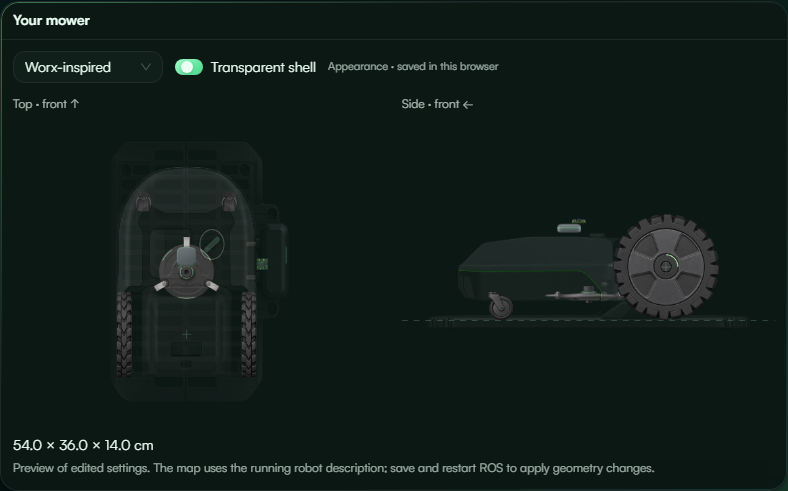
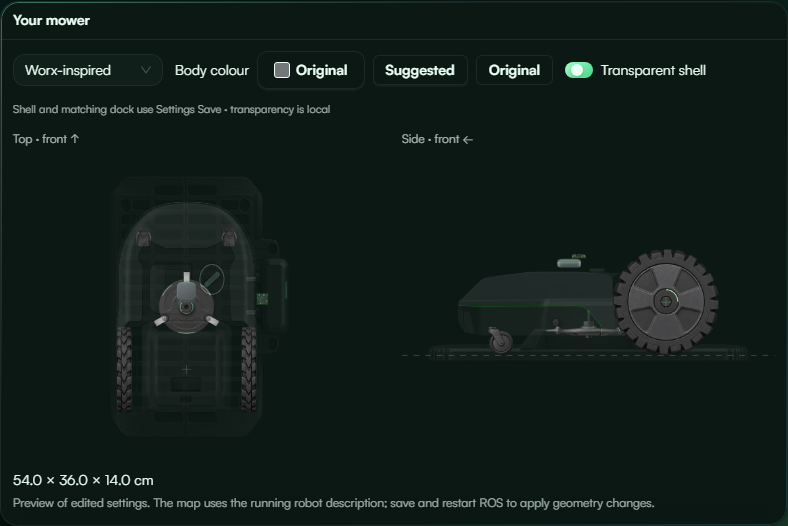
fix(gui): align side-charging dock housing with tray centre

diff --git a/gui/web/src/components/robot/PartSprite.tsx b/gui/web/src/components/robot/PartSprite.tsx
@@ -7,6 +7,7 @@ export function PartSprite({part,view,width,height,fallback,artwork="full"}: {
 }) {
     const [loaded,setLoaded]=useState(false);
     const asset=PARTS[part], region=asset[view];
+    const sourceSize=asset.sizes?.[view] ?? asset.size;
     const [x,y,w,h]=region.crop;
     // The caster's reference is its tyre, not its taller fork. This keeps wheel
     // diameter and axle height true to URDF even with an asymmetric drawing.
@@ -17,7 +18,7 @@ export function PartSprite({part,view,width,height,fallback,artwork="full"}: {
             viewBox={[x,y,w,h].join(" ")} preserveAspectRatio="none" overflow="hidden">
             <image href={artwork === "map" ? `/assets/robots/layered/map/${part}-${view}.webp` : `/assets/robots/layered/${asset.files[view]}`}
                 x={artwork === "map" ? x : 0} y={artwork === "map" ? y : 0}
-                width={artwork === "map" ? w : asset.size[0]} height={artwork === "map" ? h : asset.size[1]}
+                width={artwork === "map" ? w : sourceSize[0]} height={artwork === "map" ? h : sourceSize[1]}
                 onLoad={()=>setLoaded(true)} onError={()=>setLoaded(false)}/>
         </svg>
     </g>;

diff --git a/gui/web/src/components/robot/partAssets.ts b/gui/web/src/components/robot/partAssets.ts
@@ -1,7 +1,7 @@
 import {APPEARANCE_REGISTRY} from "./appearanceRegistry";
 export type PartId = keyof typeof APPEARANCE_REGISTRY.parts;
 type Region = {crop:readonly [number,number,number,number];reference?:readonly [number,number,number,number]};
-export type PartAtlas = {files: Record<"top"|"side",string>; mapMaxSize: number; size:readonly [number,number];top:Region;side:Region};
+export type PartAtlas = {files: Record<"top"|"side",string>; mapMaxSize: number; size:readonly [number,number];sizes?:Partial<Record<"top"|"side",readonly [number,number]>>;top:Region;side:Region};
 export const PARTS: Record<PartId,PartAtlas> = APPEARANCE_REGISTRY.parts;
 
 export function partBounds(part:PartId,view:"top"|"side",width:number,height:number) {

diff --git a/gui/web/src/components/robot/appearanceRegistry.ts b/gui/web/src/components/robot/appearanceRegistry.ts
@@ -247,15 +247,16 @@ export const APPEARANCE_REGISTRY = {
         },
         "dock-worx": {
             "size": [1774, 887],
+            "sizes": {"top": [1774, 887], "side": [1984, 793]},
             "top": {
                 "crop": [47, 53, 721, 772]
             },
             "side": {
-                "crop": [798, 370, 934, 267]
+                "crop": [100, 282, 1784, 332]
             },
             "files": {
                 "top": "dock-worx.png",
-                "side": "dock-worx.png"
+                "side": "dock-worx-side.png"
             },
             "mapMaxSize": 384
         },

diff --git a/docs/pr/layered-mower/dock-side-artwork.md b/docs/pr/layered-mower/dock-side-artwork.md
@@ -1,0 +1,16 @@
+# Side-charging dock side-view correction
+
+The original top artwork is unchanged. The side view is independently registered
+in `appearanceRegistry.ts`, preserving footprint dimensions and dock offsets.
+The charging housing is centred along the tray, broadened to match the top-view
+layout, and has two visible contacts at the same height.
+
+Tool: built-in image generation, transparent-background edit. Final asset:
+`gui/web/public/assets/robots/layered/dock-worx-side.png`.
+
+Final prompt (references: original dock atlas and the first centred side draft):
+
+> Precise-object-edit for production mower charging dock side sprite. Image 1 is original atlas, its TOP VIEW on left is authoritative geometry. Image 2 is side-view edit target: tray and centered tower are good, but tower is much TOO NARROW and two charging contacts are missing. Output ONLY corrected SIDE VIEW on genuine transparent background. Preserve Image 2 horizontal tray length, thin base height, level orthographic camera, graphite grey material and shading, centered tower location, subtle mint indicator and transparent padding. Correct upright housing to match top reference: housing body spans approximately 28% of total tray length horizontally (current body only about16%); its center exactly halfway along tray. Housing must be a BROAD low rectangular charging unit, not a skinny column, with subtly beveled edges; same height as Image2. Add TWO clearly visible SILVER METAL CHARGING PRONGS to the broad face facing the viewer, separated HORIZONTALLY, at the SAME HEIGHT, one near left end and one near right end of housing. These contacts project towards mower/viewer, foreshortened short cylindrical steel pins with rounded ends, visible short shafts and dark bases; NEVER stacked vertically. Their horizontal separation is approximately 14% of tray length, matching top view reference contact spacing. Broad housing about 460px wide relative to approximately1650px tray, two contacts around240px apart. Do NOT shift the housing towards either end of tray. No mower, no text, no brands, no cables, no extra panels, no other views, no ground/background/shadow. Keep full tray silhouette uncut.
+
+Generation is illustrative, not a dimensional survey. Physical sizing still
+comes from configured dock length/width and registry height, not source padding.

diff --git a/docs/pr/layered-mower/README.md b/docs/pr/layered-mower/README.md
@@ -203,3 +203,15 @@ browser cases passed, including saved colour across fresh browsers, draft reload
 Original reset, missing-mask fallback and compact map raster size. TypeScript and
 lint pass (0 errors, the existing 900-warning ratchet unchanged). Go schema/default,
 generated-type and settings tests pass in the non-root Linux build environment.
+
+
+### Corrected side-charging dock profile
+
+The separate side sprite now has a broad charging housing halfway along its tray,
+with both charging contacts at the same height. The original top sprite, its map
+asset, dock dimensions and registration offsets are unchanged. Galleries and Worx
+Hardware/Sensors screenshots above have been refreshed. See the
+[asset provenance and generation prompt](dock-side-artwork.md).
+
+This artwork-only follow-up passed 10 registry tests, 43 robot-rendering unit tests,
+three focused browser captures (Worx setup and both galleries), and touched-file lint.

diff --git a/gui/web/src/components/robot/README.md b/gui/web/src/components/robot/README.md
@@ -500,3 +500,10 @@ registry's compact limit (currently 384 px). It retains up to eight prepared
 pixel/coverage buffers and sixteen painted images per browser, not an unbounded
 history of picker colours. Map pose updates only move the existing image; they
 never rerun pixel processing. No separate set of full-colour PNGs is shipped.
+
+
+Side-charging dock: the top atlas remains the original reference. Its side view
+uses `dock-worx-side.png`, with a broad charging housing midway along the tray
+and two contacts at one height. Part entries may declare per-view `sizes` when
+separate source images differ; crops always use that view's native pixel coordinates.
+Registration and dock footprint settings are unchanged by an artwork correction.
